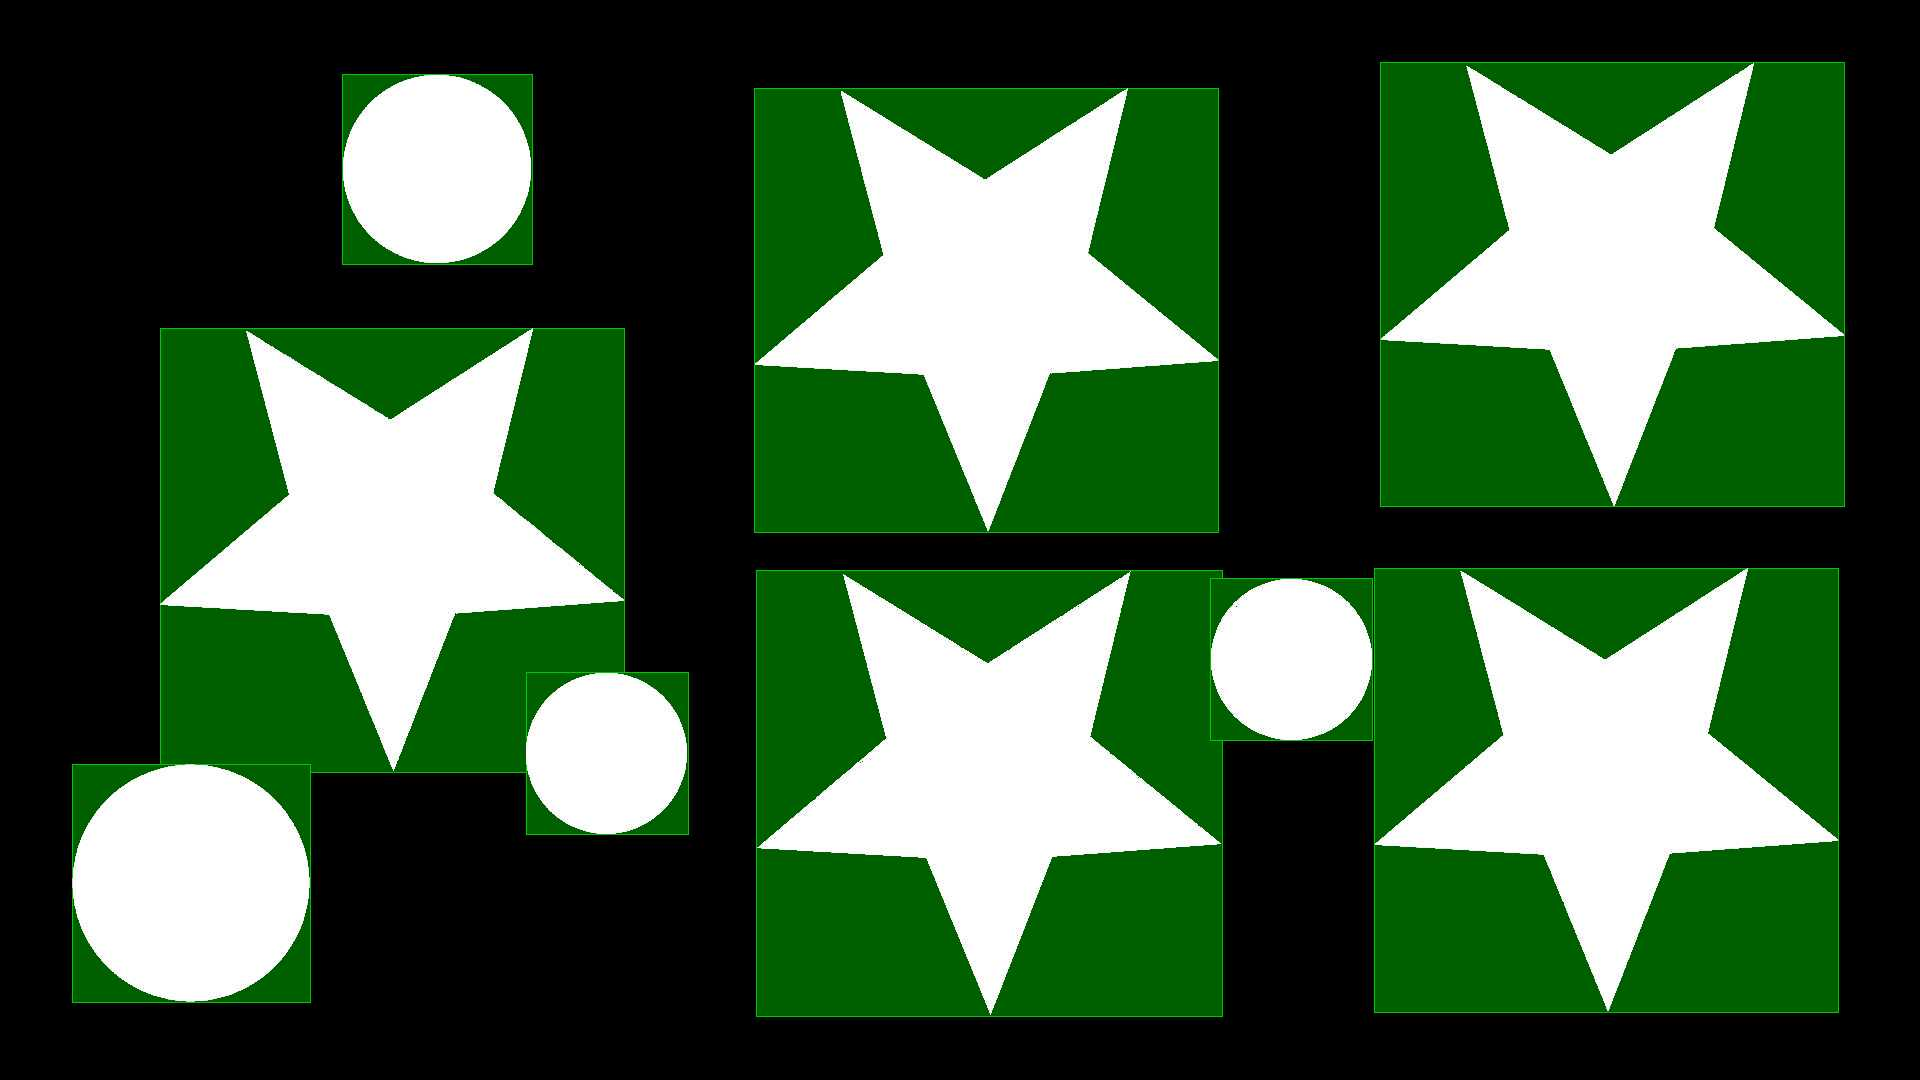
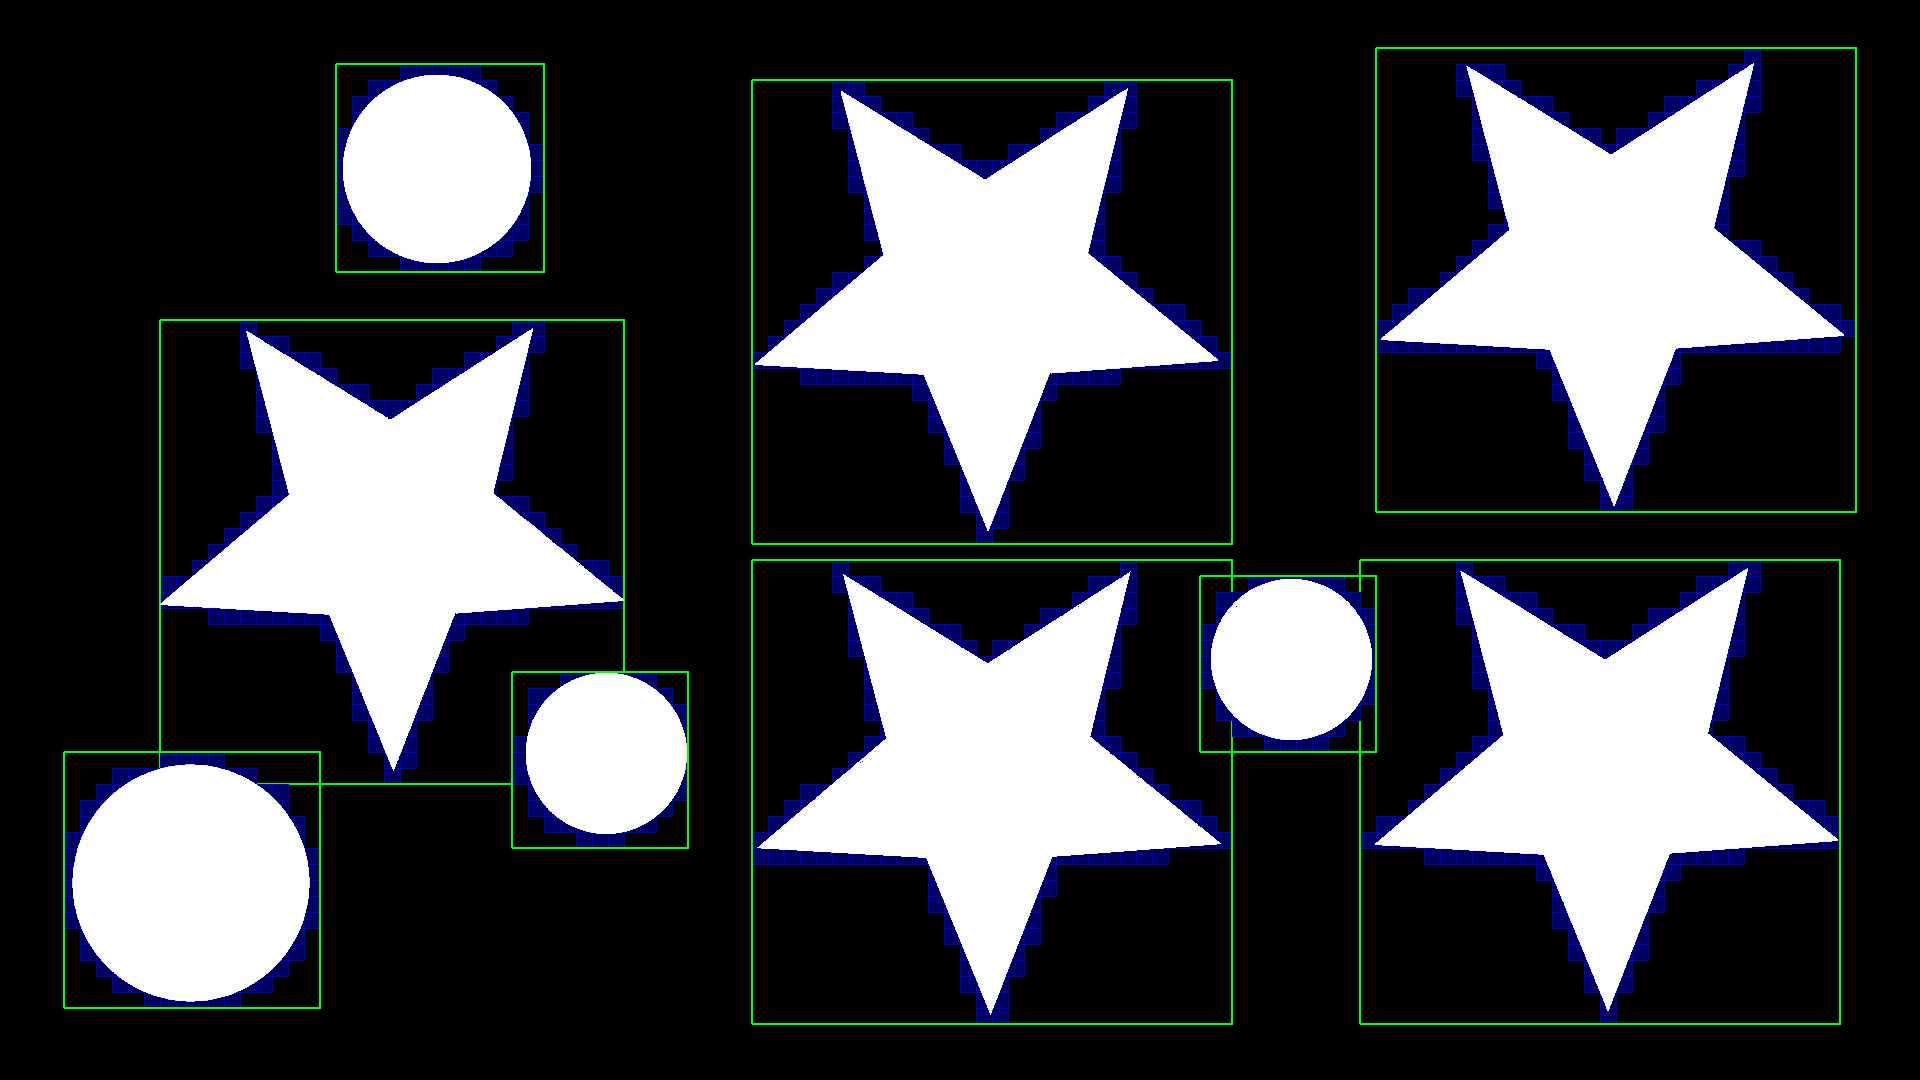
rev0p0p4 fixes

diff --git a/src/main.cpp b/src/main.cpp
@@ -102,22 +102,52 @@ void generateOutPic() {
     imgdst = QImage(imgsrc.width(), imgsrc.height(), imgsrc.format());
     imgdst.fill(Qt::black);
 
-    {
-        QPainter painter(&imgdst);
-        painter.setPen(QColor(0, 200, 0));
-        painter.setBrush(QColor(0, 96, 0));
+    int pwdth = (imgsrc.width() / 1000) + 1;
 
-        for(int i = 0; i < detector.GetObjectsCount(); i++) {
-            const vhliboptimal::VHOptimalFigure & obj = detector.GetObject(i);
+    {
+
+        for(int fign = 0; fign < detector.GetObjectsCount(); fign++) {
+
+            const vhliboptimal::VHOptimalFigure & obj = detector.GetObject(fign);
             const vhliboptimal::CellsMatrix & cmtx = detector.GetCMatrix();
             const strect rect = obj.PosAbs(cmtx);
 
-            int w = rect.x2 - rect.x1 + 1;
-            int h = rect.y2 - rect.y1 + 1;
-            painter.drawRect(rect.x1, rect.y1, w, h);
+            // Fill cells
+            {
+                QPainter painter(&imgdst);
+
+                painter.setPen(QColor(0, 0, 192));
+                painter.setBrush(QColor(0, 0, 100));
+
+                for(int spann=0; spann < obj.SpansCount(); spann++) {
+                    const vhliboptimal::stspan & span = obj.Span(spann);
+
+                    for(int celln=span.n;celln < (span.n + span.l); celln++) {
+                        auto [cx, cy] = cmtx.CellXY(celln);
+                        int cs = cmtx.CellSize();
+                        painter.drawRect(cx * cs, cy * cs, cs, cs);
+                    }
+                }
+
+                painter.end();
+            }
+
+            // max size
+            {
+                QPainter painter(&imgdst);
+
+                painter.setPen( QPen(QColor(0, 255, 0), pwdth));
+                painter.setBrush(Qt::NoBrush);
+
+                int w = rect.x2 - rect.x1 + 1;
+                int h = rect.y2 - rect.y1 + 1;
+                painter.drawRect(rect.x1, rect.y1, w, h);
+
+                painter.end();
+            }
+
         }
 
-        painter.end();
     }
 
     {

diff --git a/README.md b/README.md
@@ -42,7 +42,7 @@ https://github.com/vigatron/vhliboptimal
   </tr>
 </table>
 
-##### Example 3: Image size: 1920*1080 (1080p) Shapes (Default)
+##### Example 3: Image size: 1920*1080 (1080p) Shapes
 
 <table>
   <tr>
@@ -68,6 +68,46 @@ https://github.com/vigatron/vhliboptimal
   </tr>
 </table>
 
+##### Example 5: Image size: 640*480 (VGA) Shapes
+
+<table>
+  <tr>
+    <td align="center">
+      <img src="data/testimage5rvga.jpg" alt="src" style="width:100%; height:auto;"/>
+    </td>
+    <td align="center">
+      <img src="results/testimage5rvga_out.jpg" alt="out" style="width:100%; height:auto;"/>
+    </td>
+  </tr>
+</table>
+
+##### Example 6: Image size: 800*600 (SVGA) Text
+
+<table>
+  <tr>
+    <td align="center">
+      <img src="data/testimage6rsvga.jpg" alt="src" style="width:100%; height:auto;"/>
+    </td>
+    <td align="center">
+      <img src="results/testimage6rsvga_out.jpg" alt="out" style="width:100%; height:auto;"/>
+    </td>
+  </tr>
+</table>
+
+##### Example 7: Image size: 1280 × 720 (HD 720p) Shapes & Text
+
+<table>
+  <tr>
+    <td align="center">
+      <img src="data/testimage7r720p.jpg" alt="src" style="width:100%; height:auto;"/>
+    </td>
+    <td align="center">
+      <img src="results/testimage7r720p_out.jpg" alt="out" style="width:100%; height:auto;"/>
+    </td>
+  </tr>
+</table>
+
+---
 
 ### Benchmark Results 1
 
@@ -81,21 +121,19 @@ https://github.com/vigatron/vhliboptimal
 
 | filename | imageWidth / imageHeight<br>(pixels) | cellsize<br>(pixels) | cellsw<br>(cells) | cellsh<br>(cells) | total<br>(cells) | buffsize<br>(bytes) | objects<br>count | tsmin / tsavg / tsmax (ms)  |
 |----------|----------|----------|----------|----------|----------|----------|----------|----------|
-| testimage1r4096.jpg | 4096 x 4096 | 4 | 1024 | 1024 | 1048576 | 131072 | 6 | 79 / 79 / 79 |
-| testimage1r4096.jpg | 4096 x 4096 | 8 | 512 | 512 | 262144 | 32768 | 6 | 29 / 29 / 30 |
-| testimage1r4096.jpg | 4096 x 4096 | 16 | 256 | 256 | 65536 | 8192 | 6 | 12 / 12 / 12 |
+| testimage1r4096.jpg | 4096 x 4096 | 4 | 1024 | 1024 | 1048576 | 131072 | 6 | 80 / 80 / 81 |
+| testimage1r4096.jpg | 4096 x 4096 | 8 | 512 | 512 | 262144 | 32768 | 6 | 29 / 30 / 31 |
+| testimage1r4096.jpg | 4096 x 4096 | 16 | 256 | 256 | 65536 | 8192 | 6 | 12 / 12 / 13 |
 | testimage1r4096.jpg | 4096 x 4096 | 32 | 128 | 128 | 16384 | 2048 | 6 | 6 / 6 / 7 |
-
 
 <br>
 
 | filename | imageWidth / imageHeight<br>(pixels) | cellsize<br>(pixels) | cellsw<br>(cells) | cellsh<br>(cells) | total<br>(cells) | buffsize<br>(bytes) | objects<br>count | tsmin / tsavg / tsmax (ms)  |
 |----------|----------|----------|----------|----------|----------|----------|----------|----------|
-| testimage2r4096.jpg | 4096 x 4096 | 4 | 1024 | 1024 | 1048576 | 131072 | 3 | 85 / 85 / 86 |
-| testimage2r4096.jpg | 4096 x 4096 | 8 | 512 | 512 | 262144 | 32768 | 3 | 25 / 25 / 26 |
+| testimage2r4096.jpg | 4096 x 4096 | 4 | 1024 | 1024 | 1048576 | 131072 | 3 | 86 / 86 / 87 |
+| testimage2r4096.jpg | 4096 x 4096 | 8 | 512 | 512 | 262144 | 32768 | 3 | 25 / 25 / 25 |
 | testimage2r4096.jpg | 4096 x 4096 | 16 | 256 | 256 | 65536 | 8192 | 3 | 10 / 10 / 11 |
-| testimage2r4096.jpg | 4096 x 4096 | 32 | 128 | 128 | 16384 | 2048 | 3 | 5 / 5 / 6 |
-
+| testimage2r4096.jpg | 4096 x 4096 | 32 | 128 | 128 | 16384 | 2048 | 3 | 6 / 6 / 6 |
 
 <br>
 
@@ -106,20 +144,18 @@ https://github.com/vigatron/vhliboptimal
 | testimage3r1080p.jpg | 1920 x 1080 | 8 | 240 | 135 | 32400 | 4050 | 9 | 2 / 2 / 3 |
 | testimage3r1080p.jpg | 1920 x 1080 | 16 | 120 | 68 | 8160 | 1020 | 9 | 1 / 1 / 1 |
 
+<br>
+
+| filename | imageWidth / imageHeight<br>(pixels) | cellsize<br>(pixels) | cellsw<br>(cells) | cellsh<br>(cells) | total<br>(cells) | buffsize<br>(bytes) | objects<br>count | tsmin / tsavg / tsmax (ms)  |
+|----------|----------|----------|----------|----------|----------|----------|----------|----------|
+| testimage4r1080p.jpg | 1920 x 1080 | 1 | 1920 | 1080 | 2073600 | 259200 | 2357 | 1389 / 1389 / 1391 |
+| testimage4r1080p.jpg | 1920 x 1080 | 2 | 960 | 540 | 518400 | 64800 | 2141 | 317 / 317 / 319 |
 
 <br>
 
 | filename | imageWidth / imageHeight<br>(pixels) | cellsize<br>(pixels) | cellsw<br>(cells) | cellsh<br>(cells) | total<br>(cells) | buffsize<br>(bytes) | objects<br>count | tsmin / tsavg / tsmax (ms)  |
 |----------|----------|----------|----------|----------|----------|----------|----------|----------|
-| testimage4r1080p.jpg | 1920 x 1080 | 1 | 1920 | 1080 | 2073600 | 259200 | 2357 | 1387 / 1388 / 1391 |
-| testimage4r1080p.jpg | 1920 x 1080 | 2 | 960 | 540 | 518400 | 64800 | 2141 | 317 / 317 / 318 |
-
-
-<br>
-
-| filename | imageWidth / imageHeight<br>(pixels) | cellsize<br>(pixels) | cellsw<br>(cells) | cellsh<br>(cells) | total<br>(cells) | buffsize<br>(bytes) | objects<br>count | tsmin / tsavg / tsmax (ms)  |
-|----------|----------|----------|----------|----------|----------|----------|----------|----------|
-| testimage5rvga.jpg | 640 x 480 | 1 | 640 | 480 | 307200 | 38400 | 12 | 28 / 28 / 30 |
+| testimage5rvga.jpg | 640 x 480 | 1 | 640 | 480 | 307200 | 38400 | 12 | 28 / 28 / 29 |
 | testimage5rvga.jpg | 640 x 480 | 2 | 320 | 240 | 76800 | 9600 | 12 | 5 / 5 / 6 |
 | testimage5rvga.jpg | 640 x 480 | 4 | 160 | 120 | 19200 | 2400 | 12 | 1 / 1 / 1 |
 | testimage5rvga.jpg | 640 x 480 | 8 | 80 | 60 | 4800 | 600 | 12 | 0 / 0 / 0 |
@@ -135,17 +171,18 @@ https://github.com/vigatron/vhliboptimal
 | testimage6rsvga.jpg | 800 x 600 | 8 | 100 | 75 | 7500 | 938 | 26 | 0 / 0 / 0 |
 | testimage6rsvga.jpg | 800 x 600 | 16 | 50 | 38 | 1900 | 238 | 18 | 0 / 0 / 0 |
 
-
 <br>
 
 | filename | imageWidth / imageHeight<br>(pixels) | cellsize<br>(pixels) | cellsw<br>(cells) | cellsh<br>(cells) | total<br>(cells) | buffsize<br>(bytes) | objects<br>count | tsmin / tsavg / tsmax (ms)  |
 |----------|----------|----------|----------|----------|----------|----------|----------|----------|
-| testimage7r720p.jpg | 1280 x 720 | 1 | 1280 | 720 | 921600 | 115200 | 26 | 37 / 37 / 40 |
-| testimage7r720p.jpg | 1280 x 720 | 2 | 640 | 360 | 230400 | 28800 | 26 | 8 / 8 / 10 |
-| testimage7r720p.jpg | 1280 x 720 | 4 | 320 | 180 | 57600 | 7200 | 26 | 2 / 2 / 3 |
+| testimage7r720p.jpg | 1280 x 720 | 1 | 1280 | 720 | 921600 | 115200 | 26 | 37 / 37 / 39 |
+| testimage7r720p.jpg | 1280 x 720 | 2 | 640 | 360 | 230400 | 28800 | 26 | 9 / 9 / 10 |
+| testimage7r720p.jpg | 1280 x 720 | 4 | 320 | 180 | 57600 | 7200 | 26 | 3 / 3 / 3 |
 | testimage7r720p.jpg | 1280 x 720 | 8 | 160 | 90 | 14400 | 1800 | 26 | 1 / 1 / 1 |
 | testimage7r720p.jpg | 1280 x 720 | 16 | 80 | 45 | 3600 | 450 | 26 | 0 / 0 / 0 |
 
+
+---
 
 ### Benchmark Results 2
 
@@ -159,16 +196,38 @@ https://github.com/vigatron/vhliboptimal
 <br>
 
 
-<br>
 
 
 <br>
 
 
-<br>
 
 
 <br>
+
+
+
+
+<br>
+
+
+
+
+<br>
+
+
+
+<br>
+
+
+
+<br>
+
+
+
+<br>
+
+---
 
 ### Benchmark Results 3
 
